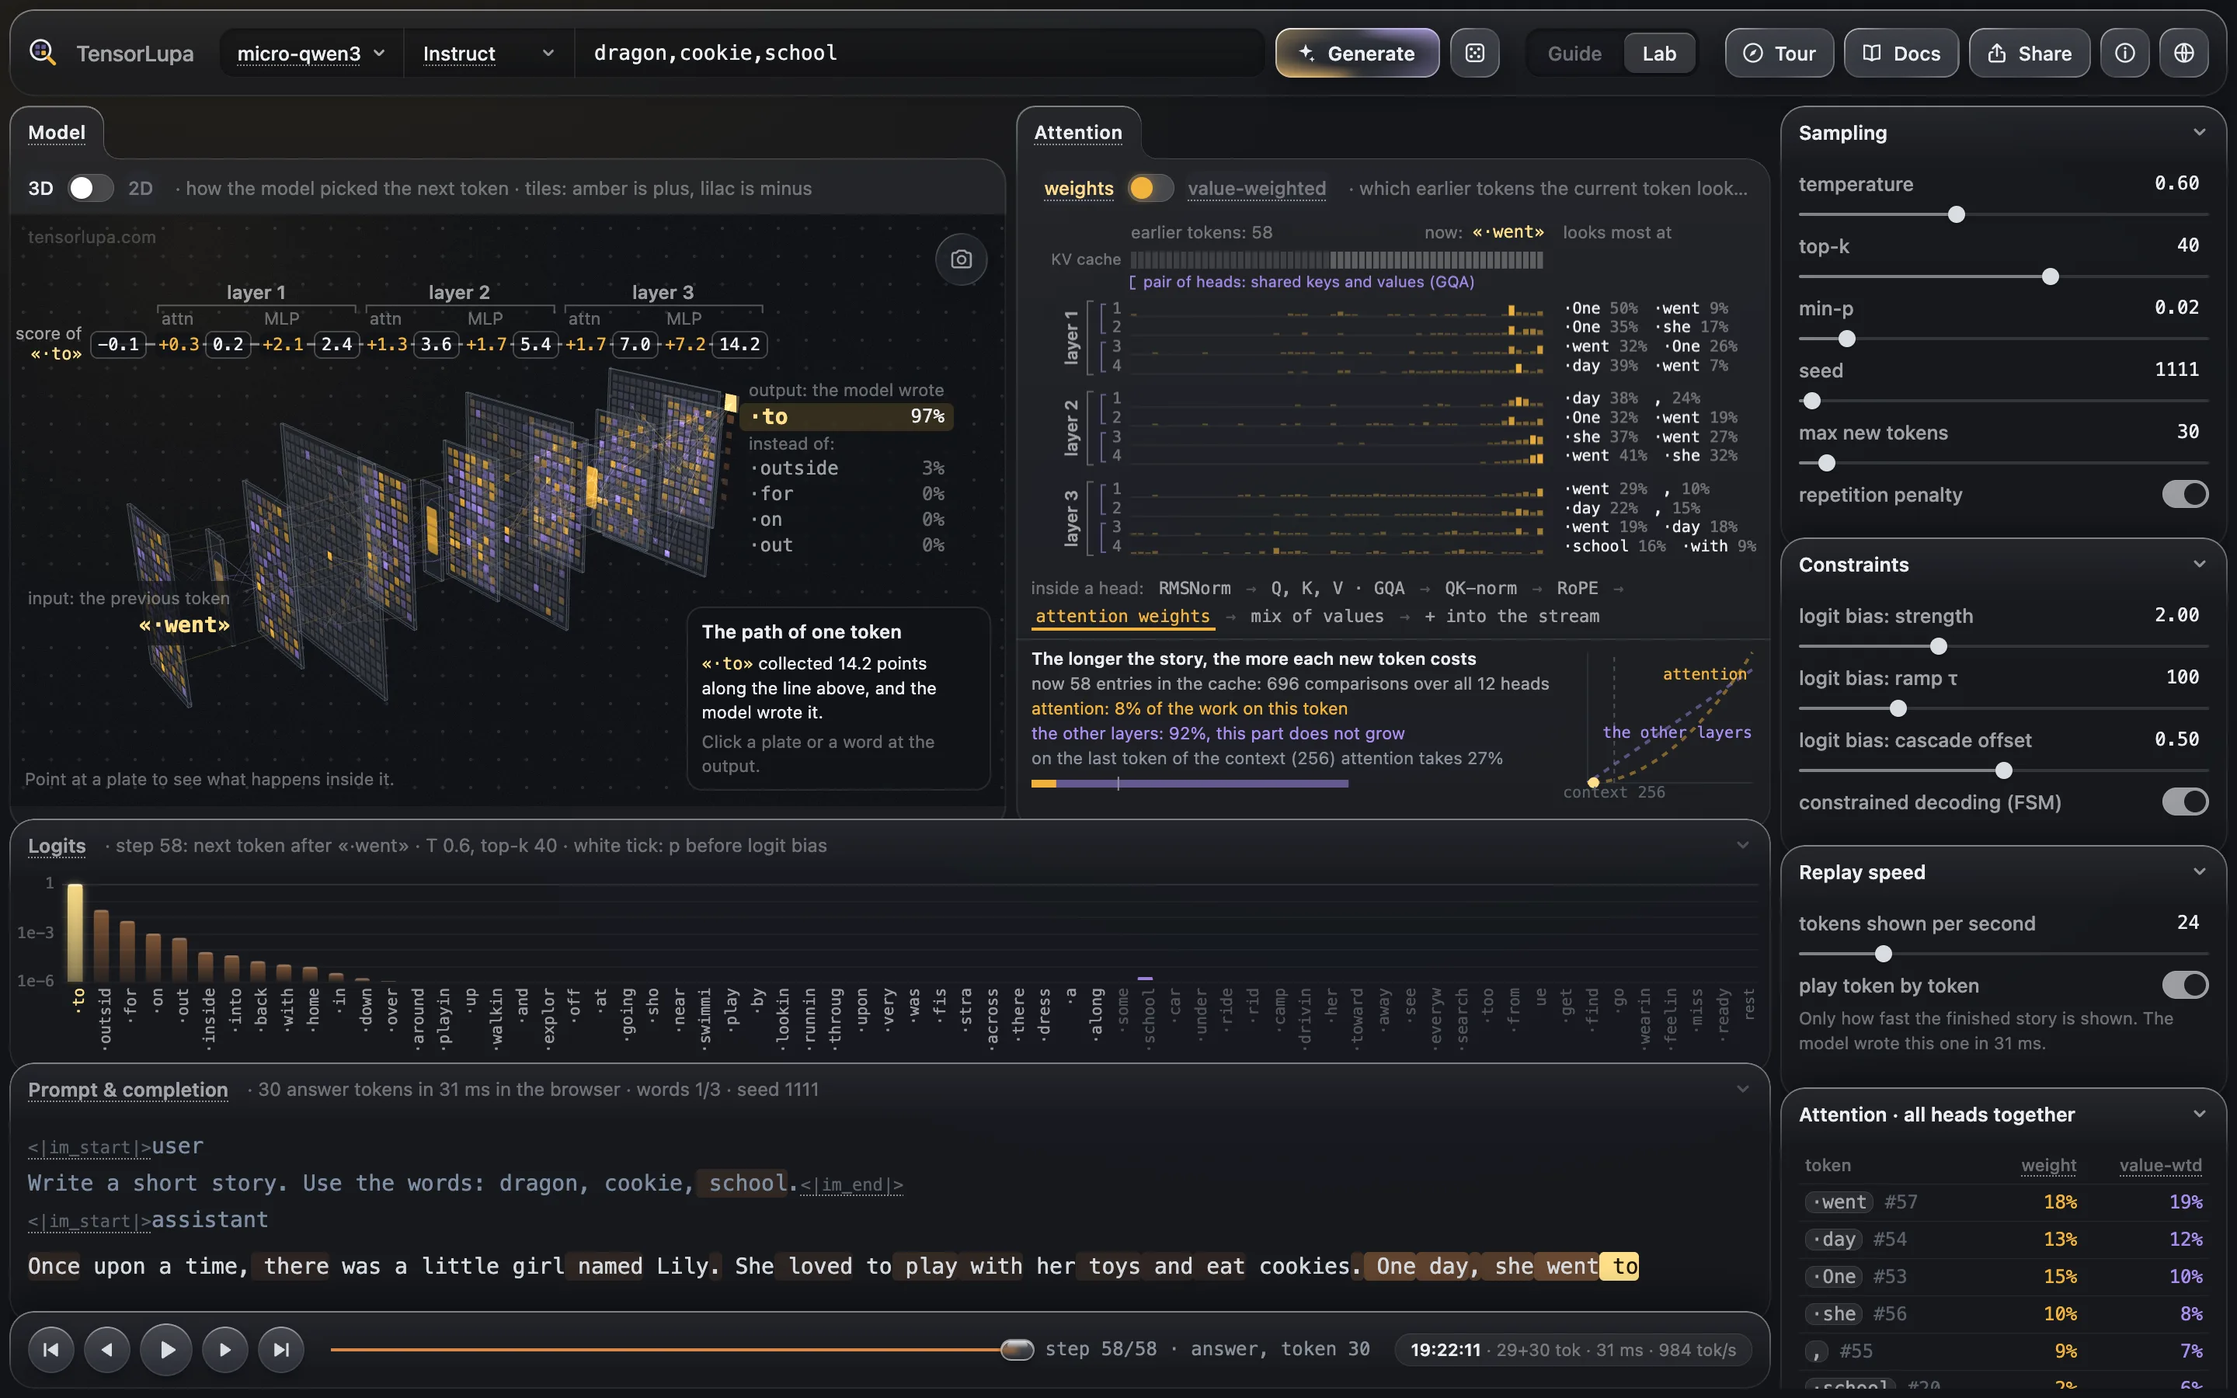
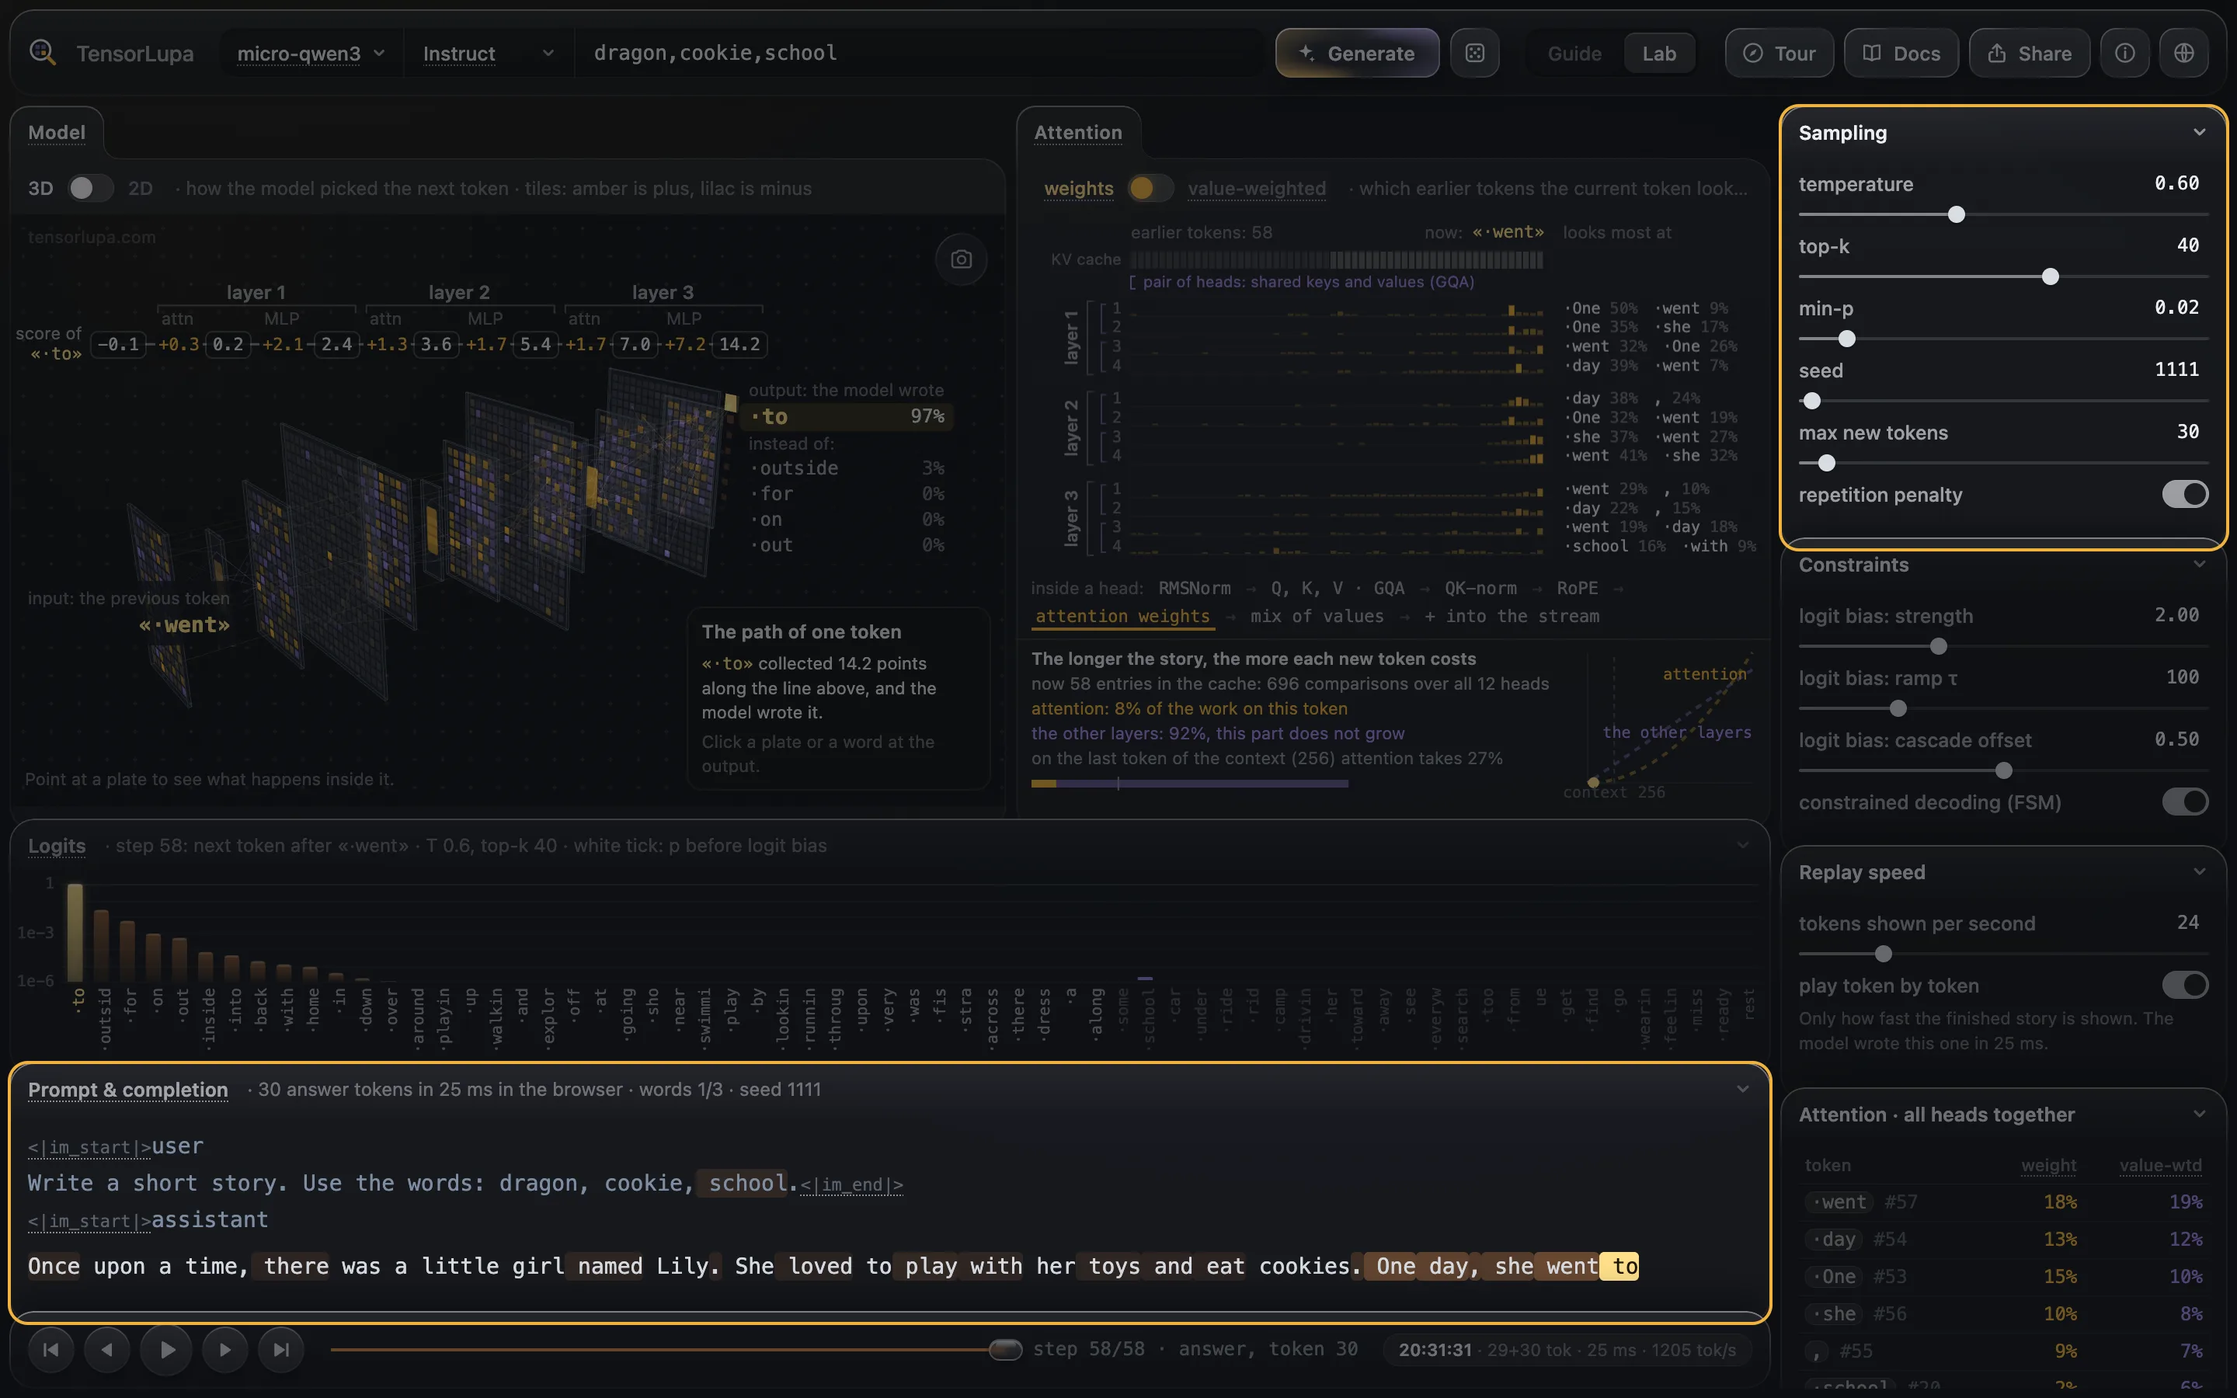
One scenario for all Docs screenshots, in any language; Russian screenshots
scripts/docs-shots takes every Docs screenshot from one table: the step, the
mode, what is selected and what is framed. The language is a parameter.
English screenshots are retaken with it so that frames and framing are the
same everywhere; Russian ones are added. The Model view gets a select() method
so the scenario can pick a plate hidden behind another one.

The Russian temperature article follows the glossary and matches the English
one in sections. scripts/seed-grid keeps the seed search for Completion mode.

diff --git a/scripts/docs-shots/shots.js b/scripts/docs-shots/shots.js
@@ -1,0 +1,69 @@
+// Скриншоты для Docs: один сценарий для всех статей и всех языков. Запуск описан в README.md рядом.
+// Функция для Playwright: открывает студию на языке LANG в окне 1440×900 (×2), для каждой статьи ставит нужный шаг,
+// режим и выбор, обводит то, о чём статья (остальное приглушает) и сохраняет PNG в .playwright-mcp/shots-<язык>/.
+// convert.sh превращает их в WebP в docsite/src/assets (английские) или docsite/src/assets/<язык>/.
+// Новая статья со скриншотом = новая строка в SHOTS. Ссылка здесь та же, что в статье, но без настроек, которые статья
+// предлагает выключить (у min-p и штрафа за повторы снимок сделан с включённой настройкой).
+async (page) => {
+  const LANG = '__LANG__', ONLY = '__ONLY__';          // подставляет run.sh; ONLY — имена через запятую или пусто (все)
+  const D = 'w=dragon,cookie,school&seed=1111';
+  // [имя файла, запрос, режим, выбор, что обвести]
+  // выбор: ['plate', группа пластин, слой с нуля, плитка] или ['head', слой с нуля, голова с нуля]
+  // обвести: model, attn, logits, story, player, field (режим и поле слов), dice, card:sampling, card:order, card:lead, card:sel
+  const SHOTS = [
+    ['language-model', `${D}&s=70`, 'lab', null, ['model', 'story', 'player']],
+    ['token', `${D}&s=62`, 'lab', null, ['story']],
+    ['prompt', `${D}&s=28`, 'lab', null, ['field', 'story']],
+    ['special-tokens', `${D}&s=160`, 'lab', null, ['model', 'story']],
+    ['completion', 'p=Once%20upon%20a%20time%2C%20a%20little%20dog&seed=1149&s=7', 'lab', null, ['field', 'story']],
+    ['instruct', `${D}&s=28`, 'lab', null, ['field', 'story']],
+    ['transformer', `${D}&s=32`, 'guide', null, ['model']],
+    ['residual-stream', `${D}&s=47`, 'lab', ['plate', 'res', 2, 56], ['model', 'card:sel']],
+    ['attention', `${D}&s=66`, 'lab', null, []],
+    ['attention-head', `${D}&s=66`, 'lab', ['head', 2, 3], []],
+    ['mlp', `${D}&s=58`, 'lab', ['plate', 'mlp', 2, 178], ['model', 'card:sel']],
+    ['logit-lens', `${D}&s=65`, 'lab', ['plate', 'res', 2, 56], ['model', 'card:sel']],
+    ['logits', `${D}&s=49`, 'guide', null, ['logits']],
+    ['sampling', `${D}&s=67`, 'lab', null, ['card:sampling', 'logits']],
+    ['entropy', `${D}&s=93`, 'guide', null, ['logits', 'card:lead']],
+    ['temperature', `${D}&s=49`, 'guide', null, ['card:sampling', 'logits']],
+    ['top-k', `${D}&s=67`, 'lab', null, ['card:sampling', 'logits']],
+    ['seed', 'w=dragon,cookie,school&seed=147&s=60', 'guide', null, ['dice', 'card:sampling']],
+    ['max-new-tokens', `${D}&n=30&s=57`, 'lab', null, ['card:sampling', 'story']],
+    ['logit-bias', `${D}&s=58`, 'lab', null, ['logits', 'card:order']],
+    ['fsm', 'w=play,luxury,shiny&seed=2&s=49', 'lab', null, ['model', 'logits']],
+    ['min-p', 'w=shoot,zigzag,mighty&seed=7001&s=81', 'lab', null, ['card:sampling', 'logits']],
+    ['repetition-penalty', 'w=tall,tree,climb&seed=264&s=63', 'guide', null, ['card:sampling', 'card:lead']],
+  ];
+  const only = ONLY && !ONLY.startsWith('__') ? ONLY.split(',') : null, base = `http://127.0.0.1:8765/${LANG === 'en' ? '' : LANG + '/'}studio`;
+  const ctx = await page.context().browser().newContext({ viewport: { width: 1440, height: 900 }, deviceScaleFactor: 2 });
+  const p = await ctx.newPage(); const errs = [], done = []; p.on('pageerror', (e) => errs.push(e.message));
+  await p.goto('http://127.0.0.1:8765/'); await p.evaluate(() => { localStorage.clear(); localStorage.setItem('mq.tour.seen', '1'); localStorage.setItem('mq.hint.seen', '1'); });
+  for (const [name, q, mode, sel, frames] of SHOTS) {
+    if (only && !only.includes(name)) continue;
+    await p.goto(`${base}?${q}&q=8&mode=${mode}`); await p.waitForTimeout(4500);
+    const info = await p.evaluate(async ([sel, frames]) => {
+      const S = window.__viz, wait = (ms) => new Promise((r) => setTimeout(r, ms));
+      if (sel && sel[0] === 'plate') { S.v3d.select(S.v3d[sel[1]][sel[2]], sel[3]); await wait(1600); }
+      if (sel && sel[0] === 'head') { S.attn.sel = { layer: sel[1], head: sel[2] }; S.attn.draw(); S.attn.onSelect(S.attn.sel); await wait(400); }
+      const card = (k) => { const cs = S.deck.cards.filter((c) => c.el.offsetHeight > 0);
+        const c = k === 'lead' ? cs[0] : k === 'sel' ? cs.find((x) => x.key.includes('#d')) : cs.find((x) => x.key === k); if (c) c.el.scrollIntoView({ block: 'nearest' }); return c && c.el; };
+      const el = (f) => f.startsWith('card:') ? card(f.slice(5)) : f === 'field' ? document.querySelector('.order .field') : f === 'dice' ? document.getElementById('reroll')
+        : document.getElementById({ model: 'view-model', attn: 'view-attn', logits: 'logits', story: 'story', player: 'player' }[f]);
+      const els = frames.map(el); await wait(200);
+      const boxes = els.map((e, i) => { if (!e) return null; const r = e.getBoundingClientRect(), pad = frames[i] === 'dice' || frames[i] === 'field' ? 5 : 0;
+        return { x: r.left - pad, y: r.top - pad, w: r.width + 2 * pad, h: Math.min(r.height, innerHeight - r.top - 2) + 2 * pad }; });
+      const missing = frames.filter((f, i) => !boxes[i]), bs = boxes.filter(Boolean);
+      if (bs.length) { const W = innerWidth, H = innerHeight, svg = document.createElementNS('http://www.w3.org/2000/svg', 'svg');
+        svg.setAttribute('style', 'position:fixed;inset:0;width:100vw;height:100vh;z-index:99998;pointer-events:none');
+        svg.innerHTML = `<defs><mask id="dm"><rect width="${W}" height="${H}" fill="#fff"/>${bs.map((b) => `<rect x="${b.x}" y="${b.y}" width="${b.w}" height="${b.h}" rx="12" fill="#000"/>`).join('')}</mask></defs>` +
+          `<rect width="${W}" height="${H}" fill="rgba(8,9,11,0.55)" mask="url(#dm)"/>` + bs.map((b) => `<rect x="${b.x}" y="${b.y}" width="${b.w}" height="${b.h}" rx="12" fill="none" stroke="#f2b33d" stroke-width="2"/>`).join('');
+        document.body.appendChild(svg); }
+      return { missing, v3d: !!S.v3d, step: S.cur }; }, [sel, frames]);
+    await p.mouse.move(720, 896); await p.waitForTimeout(400);
+    await p.screenshot({ path: `.playwright-mcp/shots-${LANG}/${name}-studio.png` });
+    done.push(name + (info.missing.length ? ' (не найдено: ' + info.missing.join(',') + ')' : '') + (info.v3d ? '' : ' (нет 3D)'));
+  }
+  await p.evaluate(() => localStorage.clear()); await ctx.close();
+  return { lang: LANG, shots: done.length, done, errs };
+}

diff --git a/scripts/seed-grid/completion.js b/scripts/seed-grid/completion.js
@@ -1,0 +1,34 @@
+// Перебор seed для режима Completion (8 бит, настройки студии по умолчанию). Критерии — как у заказов Instruct:
+// история закончилась сама, мало повторов; дальше лучшие читаются глазами.
+async (page) => {
+  const PROMPTS = { a: 'Once upon a time', b: 'Once upon a time, a little dog', c: 'Write a short story. Use the words: dragon, cookie, school.' };
+  const FROM = 1, TO = 1500, CHUNK = 150;
+  const ctx = await page.context().browser().newContext({ viewport: { width: 1440, height: 900 } });
+  const p = await ctx.newPage();
+  await p.goto('http://127.0.0.1:8765/'); await p.evaluate(() => { localStorage.setItem('mq.tour.seen', '1'); localStorage.setItem('mq.hint.seen', '1'); });
+  await p.goto('http://127.0.0.1:8765/studio?p=Once%20upon%20a%20time&seed=1111&q=8&mode=lab'); await p.waitForTimeout(5000);
+  const ready = await p.evaluate(() => !!window.__viz.engine.corpus);
+  const out = { ready };
+  for (const [key, prompt] of Object.entries(PROMPTS)) {
+    const all = [];
+    for (let s0 = FROM; s0 <= TO; s0 += CHUNK) {
+      const part = await p.evaluate(([prompt, s0, s1]) => { const e = window.__viz.engine, T = e.tokenText, res = [];
+        for (let seed = s0; seed <= s1; seed++) {
+          e.settings({ temperature: 0.6, topK: 40, seed, wbBase: 2, wbTau: 100, wbStart: 0.5, fsm: true, corpusPenalty: true, minP: 0.02, maxNew: 200 });
+          const run = e.run(prompt, ''), gen = run.steps.filter((x) => x.kind === 'gen'), last = gen[gen.length - 1];
+          const ended = last && last.output <= 2, text = gen.filter((x) => x.output > 2).map((x) => T[x.output]).join('');
+          const w = text.toLowerCase().replace(/[^a-z' ]+/g, ' ').split(/\s+/).filter(Boolean), tri = new Map(); let rep = 0;
+          for (let i = 0; i + 2 < w.length; i++) { const k = w[i] + ' ' + w[i + 1] + ' ' + w[i + 2]; tri.set(k, (tri.get(k) || 0) + 1); }
+          for (const v of tri.values()) if (v > 1) rep += v - 1;
+          const sents = text.split(/(?<=[.!?])\s+/).map((x) => x.trim()).filter(Boolean), dupSent = sents.length - new Set(sents).size;
+          res.push([seed, ended ? 1 : 0, gen.length, rep, dupSent, text]);
+        }
+        return res; }, [prompt, s0, Math.min(TO, s0 + CHUNK - 1)]);
+      all.push(...part);
+    }
+    const ended = all.filter((r) => r[1]).length;
+    const good = all.filter((r) => r[1] && r[3] <= 2 && r[4] === 0 && r[2] >= 70 && r[2] <= 150).sort((a, b) => a[3] - b[3] || Math.abs(a[2] - 110) - Math.abs(b[2] - 110));
+    out[key] = { n: all.length, ended, good: good.length, repMedian: all.map((r) => r[3]).sort((x, y) => x - y)[all.length >> 1], cur: all.find((r) => r[0] === 1111).slice(0, 5), top: good.slice(0, 14).map((r) => [r[0], r[2], r[3], r[5]]) };
+  }
+  await ctx.close(); return out;
+}

diff --git a/web/view3d.js b/web/view3d.js
@@ -284,17 +284,20 @@ export class View3D {
       this.cursor.position.copy(plate.at(idx)); this.cursor.scale.setScalar(plate.tile > 1 ? plate.tile : 1); this.cursor.visible = true;
       this.setTip(plate, idx);
     } else { this.cursor.visible = false; this.tip.visible = false; }
-    if (click) {
-      this.sel = plate ? { plate, idx } : null; this.opSel = null;
-      this.wires.focus = plate ? plate.tag : null;
-      for (const p of this.plates) {
-        const on = p === plate;
-        p.frame.material.color.set(on ? 0xf2b33d : RIM); p.frame.material.opacity = on ? 1 : 0.55;
-        p.glass.material.color.set(on ? 0xf2c46a : GLASS); p.glass.material.opacity = on ? 0.1 : 0.075;
-      }
-      this.layout(true);
-      if (this.onSelect) this.onSelect();
+    if (click) this.select(plate, idx);
+  }
+  // выбрать пластину (или снять выбор: plate = null). Щелчок мыши приходит сюда же; напрямую метод зовёт скрипт
+  // пересъёмки скриншотов Docs (scripts/docs-shots), потому что в 3D нужную пластину может заслонять соседняя.
+  select(plate, idx = 0) {
+    this.sel = plate ? { plate, idx } : null; this.opSel = null;
+    this.wires.focus = plate ? plate.tag : null;
+    for (const p of this.plates) {
+      const on = p === plate;
+      p.frame.material.color.set(on ? 0xf2b33d : RIM); p.frame.material.opacity = on ? 1 : 0.55;
+      p.glass.material.color.set(on ? 0xf2c46a : GLASS); p.glass.material.opacity = on ? 0.1 : 0.075;
     }
+    this.layout(true);
+    if (this.onSelect) this.onSelect();
   }
 
   // рельеф выбранной пластины: столбик из каждой плитки перпендикулярно пластине — плюс (жёлтый) влево,

diff --git a/scripts/seed-grid/README.md b/scripts/seed-grid/README.md
@@ -1,0 +1,15 @@
+# Seed grid
+
+How the default seeds of the studio are picked: generate one prompt with many seeds, keep the stories that pass
+simple checks, then read the best ones.
+
+`completion.js` is a function for Playwright. With the local site running (`python3 serve.py 8765`) it opens the
+studio, runs the listed prompts with seeds 1 to 1500 at the studio's default settings, and returns for each prompt:
+how many stories ended on their own, how many passed (ended on its own, at most two repeated three-word phrases, no
+repeated sentence, 70 to 150 tokens) and the text of the best ones.
+
+- The 8-bit or 4-bit model is chosen by `q=8` or `q=4` in the address inside the file.
+- Results in use: Completion mode, "Once upon a time": seed 1246 (8-bit), 633 (4-bit), see `COMPLETION_SEED` in
+  `web/editor.js`. Docs examples: "Once upon a time, a little dog" 1149; the request text in Completion mode 1231.
+- The Instruct presets (`PICKS_ALL` in `web/editor.js`) were picked the same way, with one more check: all requested
+  words are in the story.

diff --git a/scripts/docs-shots/README.md b/scripts/docs-shots/README.md
@@ -1,0 +1,13 @@
+# Screenshots for Docs
+
+All screenshots of the Docs articles are taken by one scenario, `shots.js`, for any language of the studio.
+
+1. Start the local site: `python3 serve.py 8765`.
+2. Prepare the scenario for a language: `sh scripts/docs-shots/prepare.sh ru` writes a copy of `shots.js` with the
+   language filled in (optionally a list of names: `sh scripts/docs-shots/prepare.sh ru mlp,logits`).
+3. Run that copy with Playwright (it is one function that takes `page`). It saves PNG files into a
+   `shots-<language>` folder.
+4. Convert: `sh scripts/docs-shots/convert.sh ru <folder with PNG files>`. English images go to
+   `docsite/src/assets/`, other languages to `docsite/src/assets/<language>/`. It needs `cwebp`.
+
+A new article with a screenshot is one more line in `SHOTS` at the top of `shots.js`.
